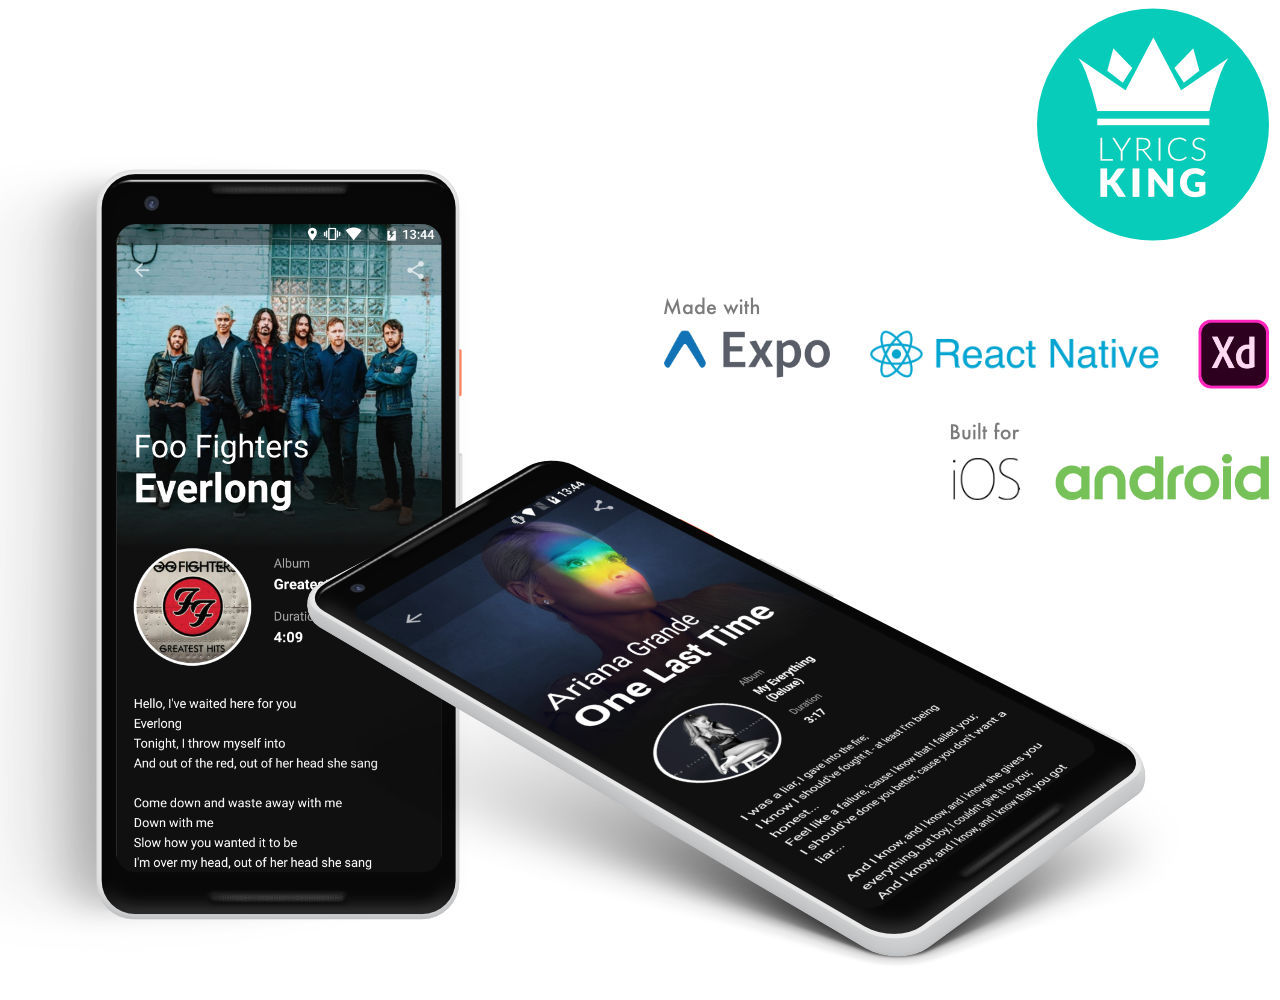
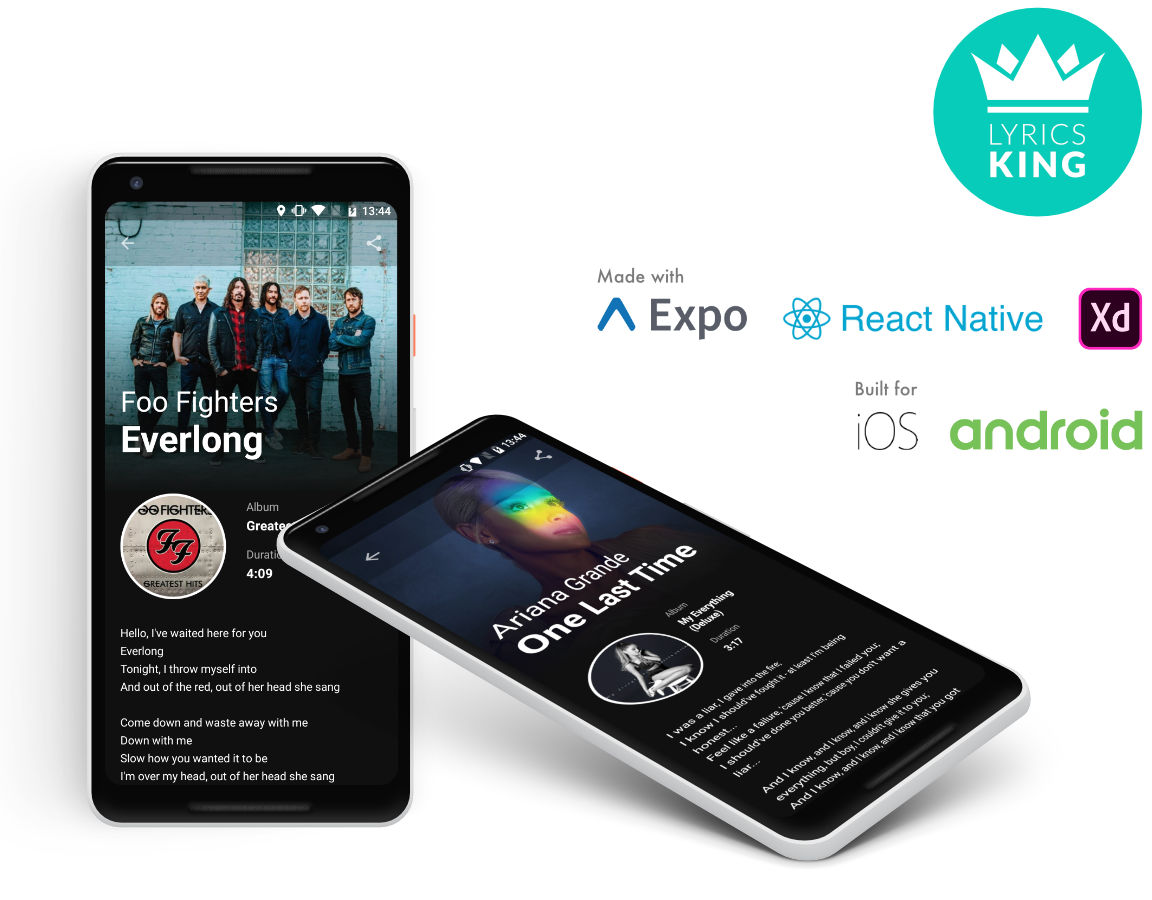
Image cleanup

diff --git a/README.md b/README.md
@@ -6,7 +6,7 @@
 
 A [React Native](https://facebook.github.io/react-native/) native app utilising [Expo](https://expo.io/), [React Navigation](https://reactnavigation.org) and fetching data from mutliple API's ([Deezer](https://developers.deezer.com/) and [Lyrics.OVH](https://www.lyrics.ovh)). UI built with [Adobe XD](https://www.adobe.com/uk/products/xd.html).
 <br><br>
-<img src="https://github.com/SKempin/Lyrics-King-React-Native/blob/master/_github/screenshots/header.jpg" width="1000" >
+<img src="https://github.com/SKempin/Lyrics-King-React-Native/blob/master/_github/screenshots/header.jpg" width="900" >
 
 <a href="https://expo.io/@skempin/lyrics-king">
 	<img src="https://github.com/SKempin/Lyrics-King-React-Native/blob/master/_github/screenshots/video.gif" width="350" >
